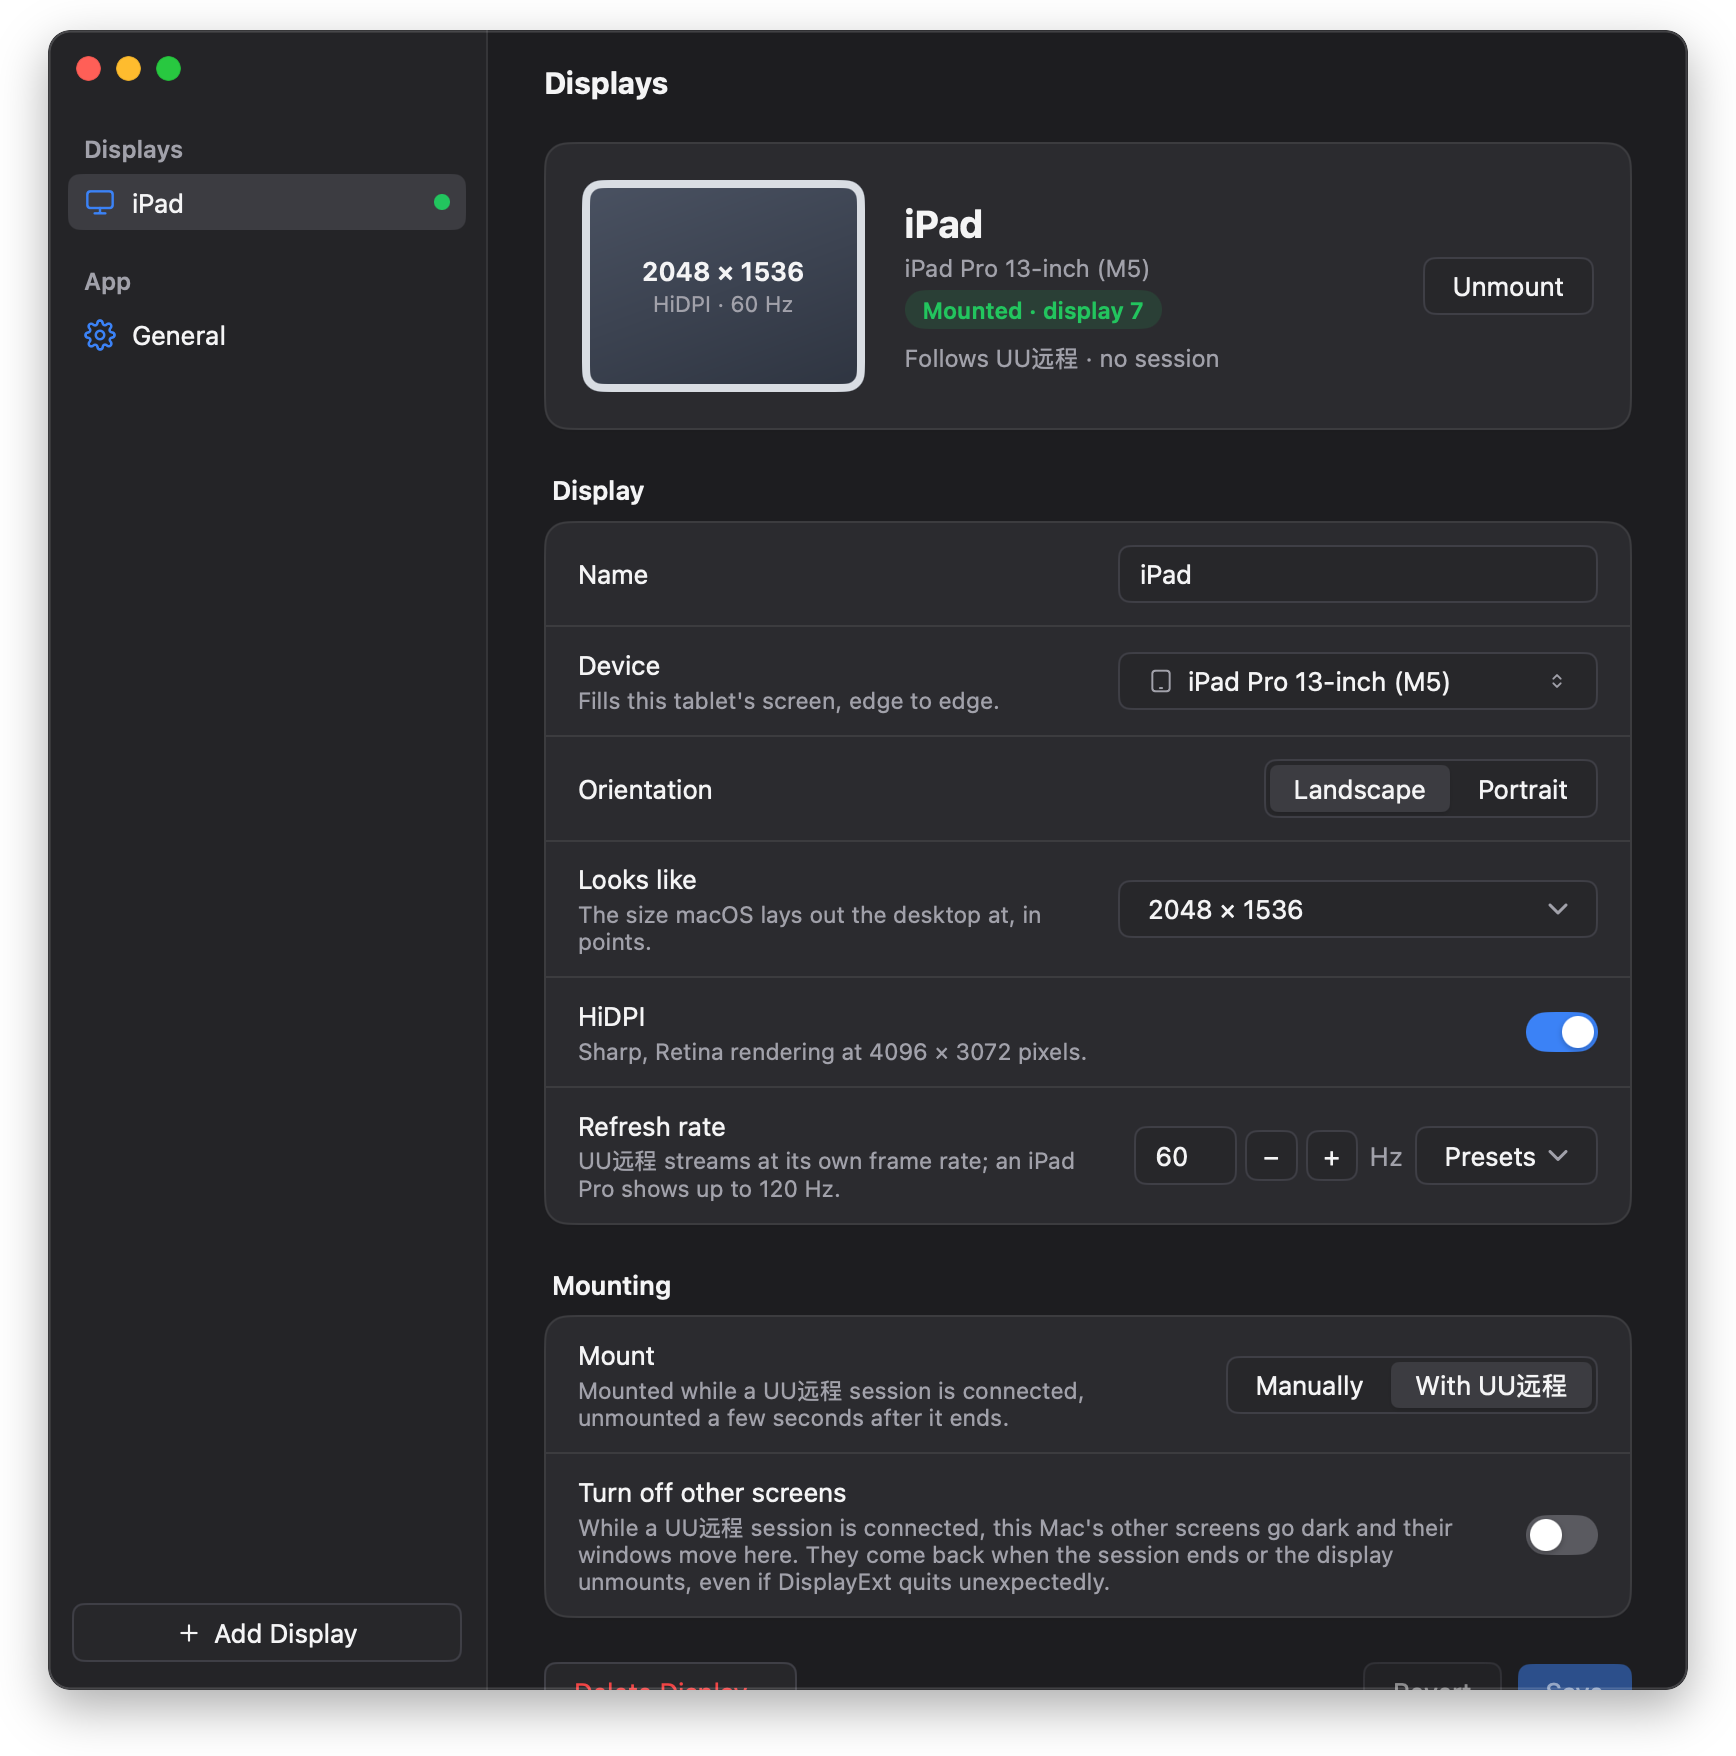
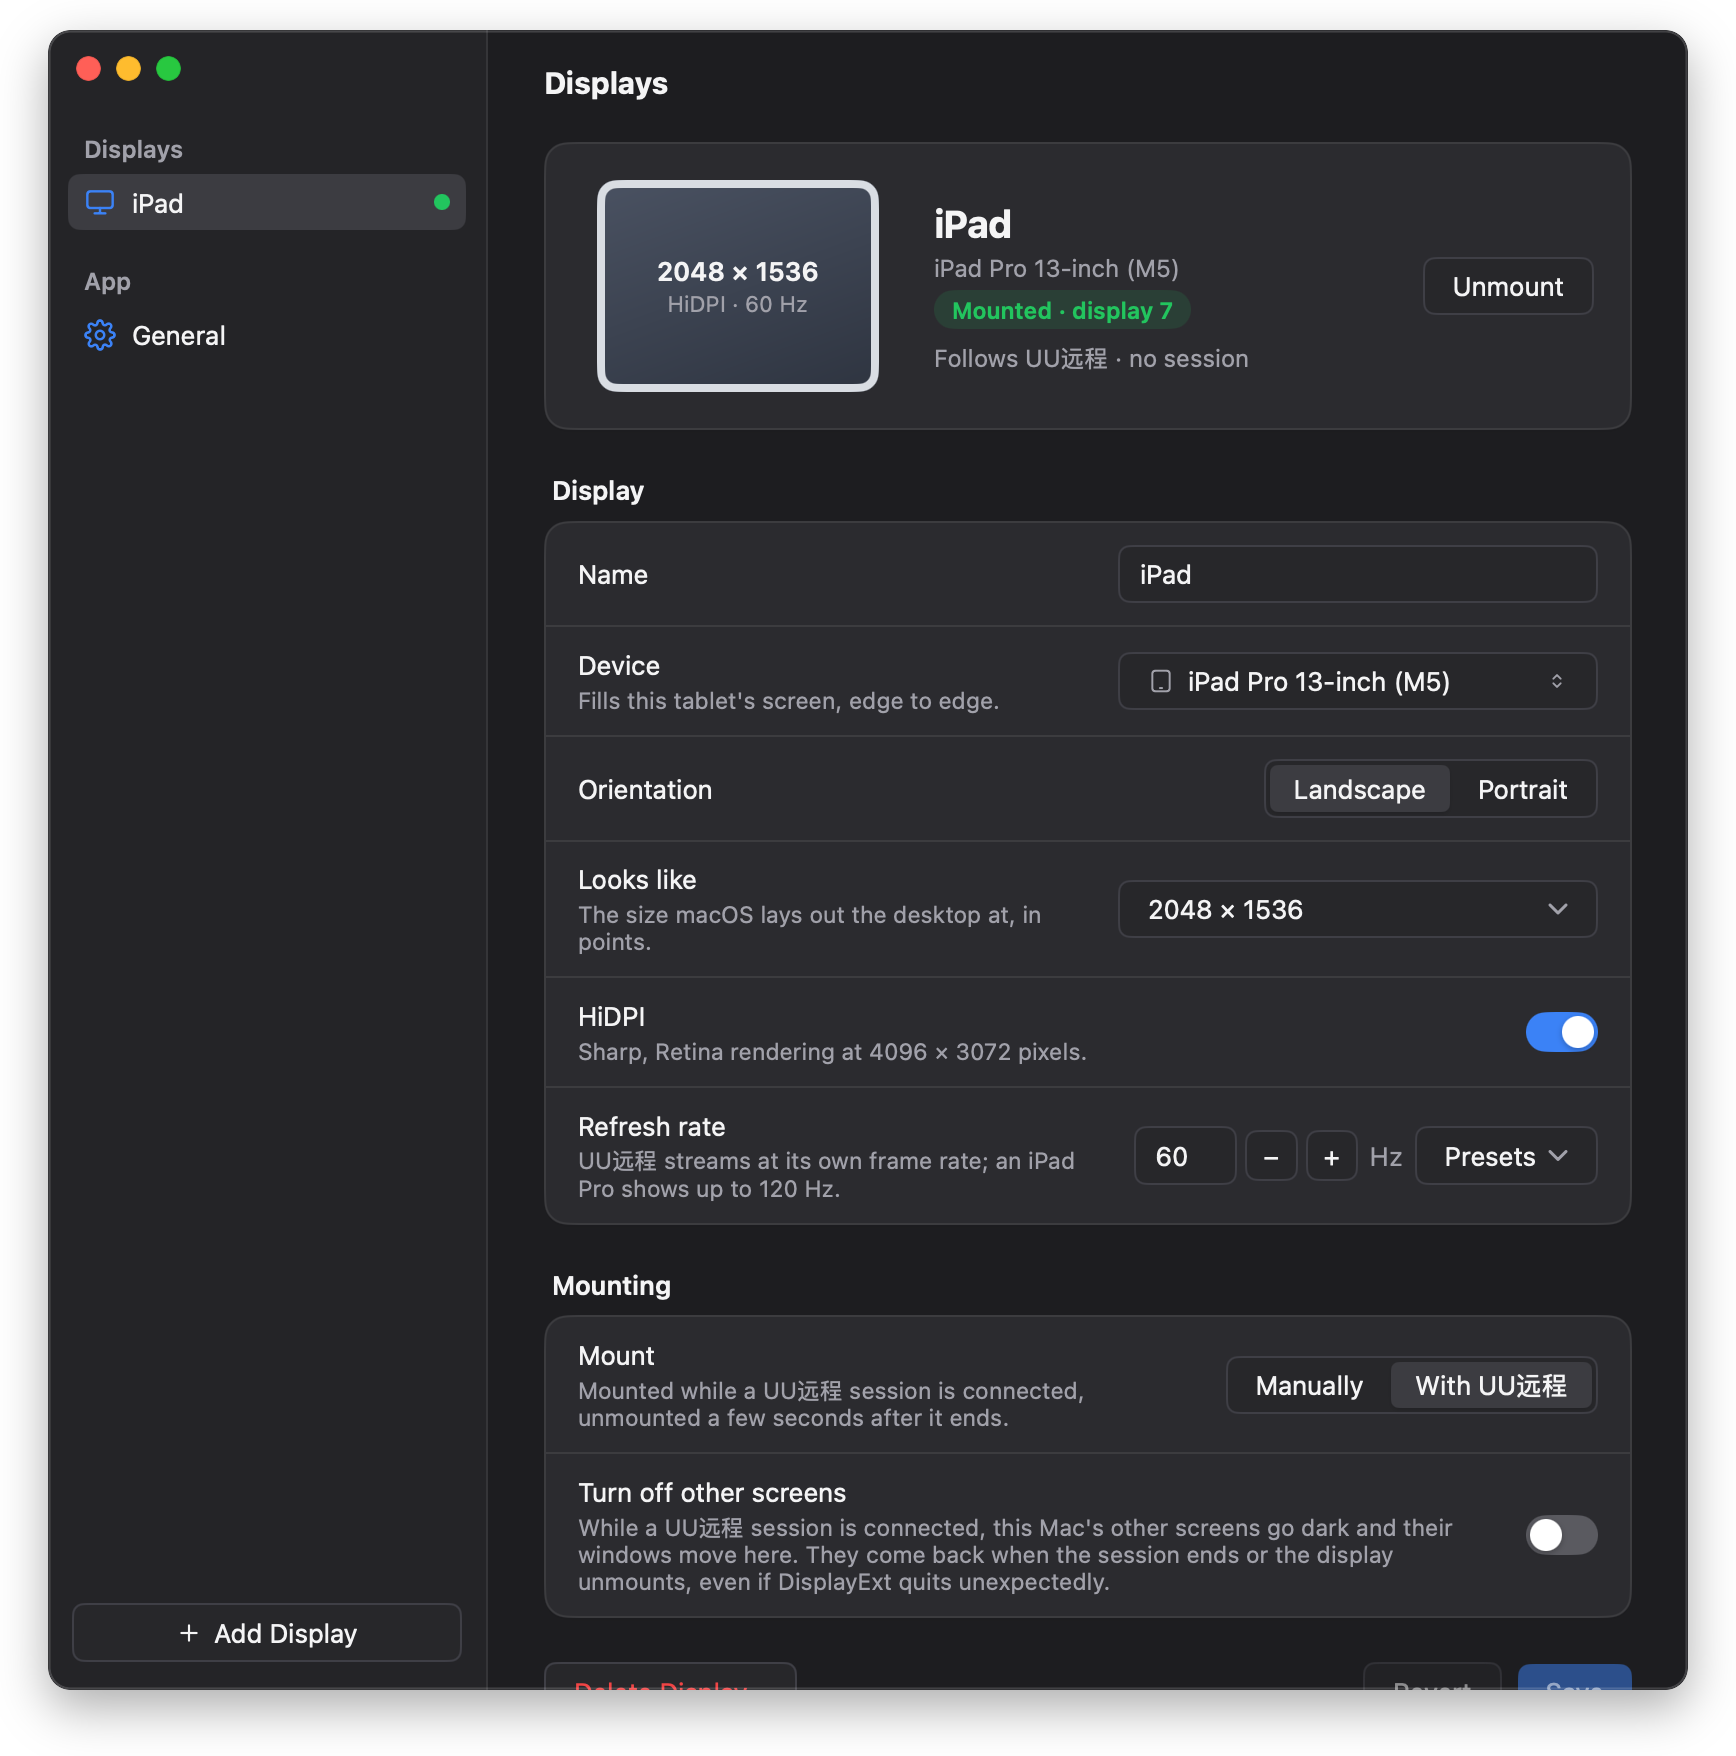
Fit tall displays in the preview, and follow edits in the header
A portrait phone's preview was too narrow for "540 × 921" and
"HiDPI · 60 Hz", so both were cut off. Tall previews now get more height
and split the size and details over short lines. The header's name and
device now follow unsaved edits, as the preview already did, and the
device line is left out when it repeats the name.

Changed region(s): [[0.3111, 0.0923, 0.7154, 0.2153]]

diff --git a/internal/app/settings.go b/internal/app/settings.go
@@ -594,8 +594,12 @@ func (s *Settings) hero(c *ui.Context, p palette, d config.Display) {
 		ui.Row(c).Gap(20).AlignItems(ui.Center).Children(func() {
 			preview(c, p, d, mounted)
 			ui.Column(c).Grow(1).Gap(7).Children(func() {
-				ui.Text(c, s.saved.Name).FontSize(19).Bold().SingleLine()
-				if m, ok := devices.Lookup(s.saved.Device); ok {
+				name := d.Name
+				if name == "" {
+					name = s.saved.Name
+				}
+				ui.Text(c, name).FontSize(19).Bold().SingleLine()
+				if m, ok := devices.Lookup(d.Device); ok && modelTitle(m) != name {
 					ui.Text(c, modelTitle(m)).FontSize(12).TextColor(t.TextMuted).SingleLine().MarginY(-3)
 				}
 				switch {
@@ -738,20 +742,39 @@ func row(c *ui.Context, p palette, first bool, label, help string, control func(
 
 func preview(c *ui.Context, p palette, d config.Display, mounted bool) {
 	t := c.Theme()
-	w, h := fit(d.AspectW, d.AspectH, 156, 106)
-	screen := ui.Column(c).Size(w, h).Radius(10).Gap(2).Center()
-	if mounted {
-		screen = screen.Gradient(p.screenTop, p.screenBottom, 160).Border(4, p.frame)
-	} else {
-		screen = screen.Background(p.ghost).Border(2.5, p.frame).BorderStyle(ui.BorderDashed)
+	maxH := float32(106)
+	if d.AspectW < d.AspectH {
+		maxH = 132
 	}
-	screen.Children(func() {
-		ui.Text(c, fmt.Sprintf("%d × %d", d.Width, d.Height)).FontSize(13).FontWeight(600).SingleLine()
-		detail := fmt.Sprintf("%d Hz", d.RefreshHz)
-		if d.HiDPI {
-			detail = "HiDPI · " + detail
+	w, h := fit(d.AspectW, d.AspectH, 156, maxH)
+	narrow := w < 120
+	ui.Column(c).Width(156).AlignItems(ui.Center).Children(func() {
+		screen := ui.Column(c).Size(w, h).Radius(10).Gap(2).Center()
+		if mounted {
+			screen = screen.Gradient(p.screenTop, p.screenBottom, 160).Border(4, p.frame)
+		} else {
+			screen = screen.Background(p.ghost).Border(2.5, p.frame).BorderStyle(ui.BorderDashed)
 		}
-		ui.Text(c, detail).FontSize(11).TextColor(t.TextMuted).SingleLine()
+		screen.Children(func() {
+			size := func(text string) { ui.Text(c, text).FontSize(13).FontWeight(600).SingleLine() }
+			detail := func(text string) { ui.Text(c, text).FontSize(11).TextColor(t.TextMuted).SingleLine() }
+			hz := fmt.Sprintf("%d Hz", d.RefreshHz)
+			switch {
+			case narrow:
+				size(strconv.Itoa(d.Width))
+				size("× " + strconv.Itoa(d.Height))
+				if d.HiDPI {
+					detail("HiDPI")
+				}
+				detail(hz)
+			case d.HiDPI:
+				size(fmt.Sprintf("%d × %d", d.Width, d.Height))
+				detail("HiDPI · " + hz)
+			default:
+				size(fmt.Sprintf("%d × %d", d.Width, d.Height))
+				detail(hz)
+			}
+		})
 	})
 }
 

diff --git a/internal/app/snapshot_test.go b/internal/app/snapshot_test.go
@@ -6,6 +6,8 @@ import (
 	"path/filepath"
 	"testing"
 
+	"displayext/internal/devices"
+
 	"github.com/egoist/mygo/i18n"
 	"github.com/egoist/mygo/ui"
 )
@@ -21,13 +23,15 @@ func TestSnapshot(t *testing.T) {
 		mounted bool
 		general bool
 		picker  bool
+		phone   bool
 	}{
-		{"settings-light", false, true, false, false},
-		{"settings-dark", true, true, false, false},
-		{"settings-unmounted", false, false, false, false},
-		{"settings-picker", false, false, false, true},
-		{"general-light", false, false, true, false},
-		{"general-dark", true, false, true, false},
+		{"settings-light", false, true, false, false, false},
+		{"settings-dark", true, true, false, false, false},
+		{"settings-unmounted", false, false, false, false, false},
+		{"settings-picker", false, false, false, true, false},
+		{"settings-phone", false, false, false, false, true},
+		{"general-light", false, false, true, false, false},
+		{"general-dark", true, false, true, false, false},
 	}
 	defer i18n.SetLocaleFunc(func() string { return "" })
 	for _, lang := range []string{"en", "zh-Hans"} {
@@ -40,6 +44,10 @@ func TestSnapshot(t *testing.T) {
 				s.showGeneral()
 			}
 			s.pickerOpen = shot.picker
+			if shot.phone {
+				m, _ := devices.Lookup("Apple iPhone 15 Pro")
+				s.chooseDevice(m)
+			}
 			tt := ui.NewTesterWith(s.View, 820, 830, ui.TesterOptions{Dark: shot.dark})
 			tt.SetLocale(lang)
 			tt.SetScale(2)
